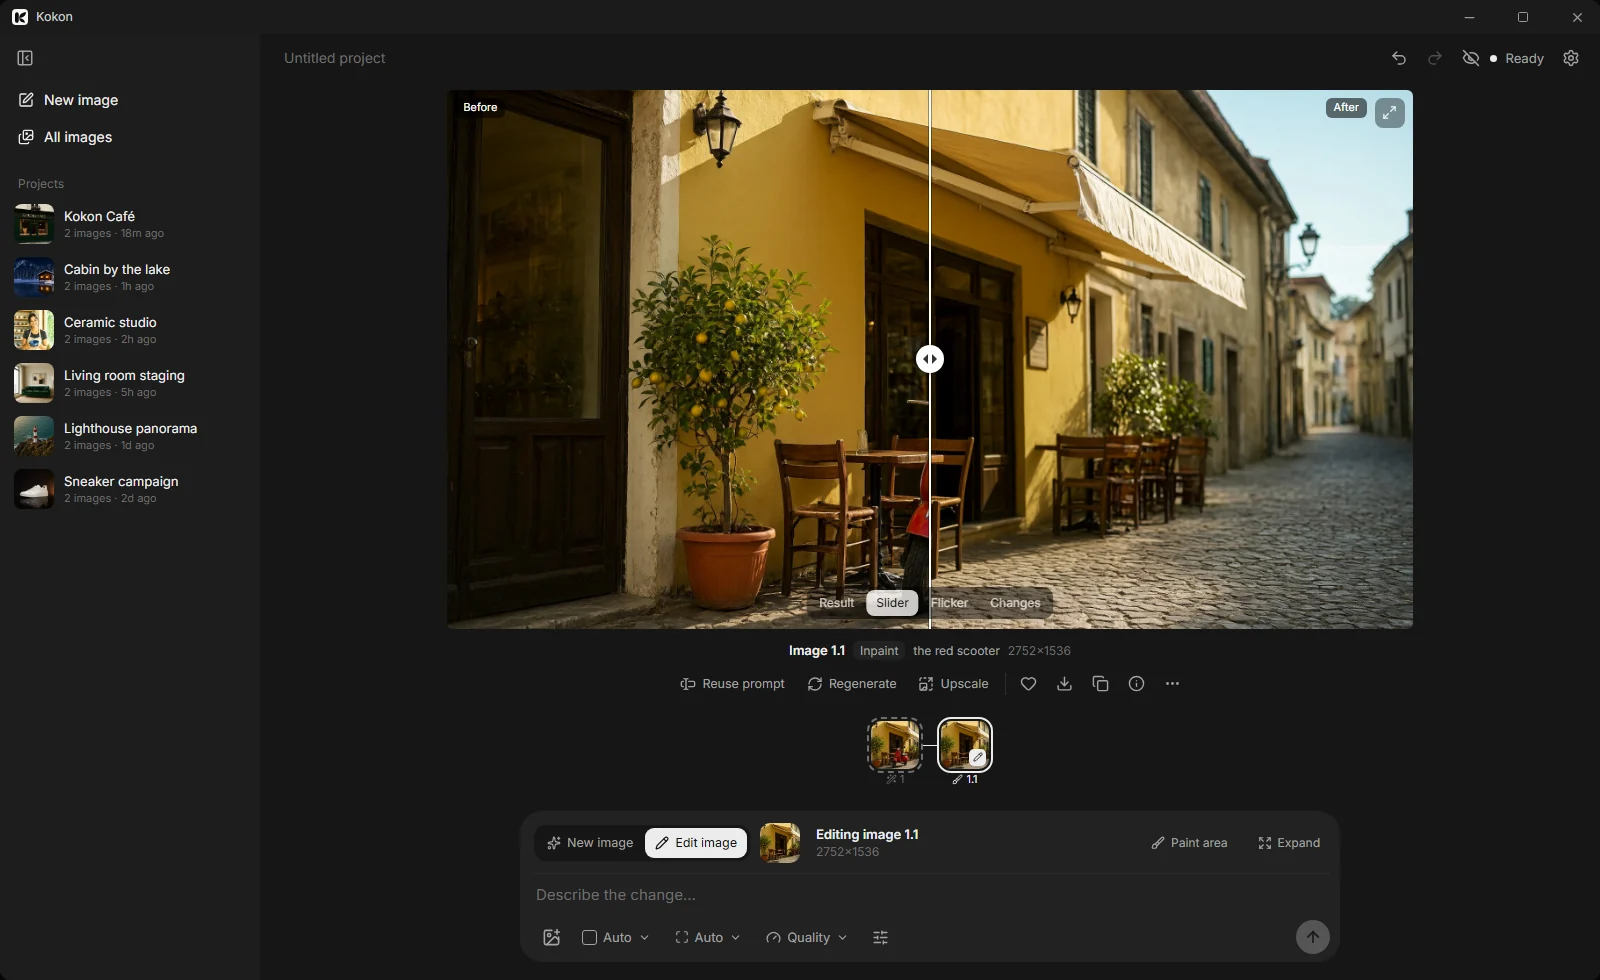
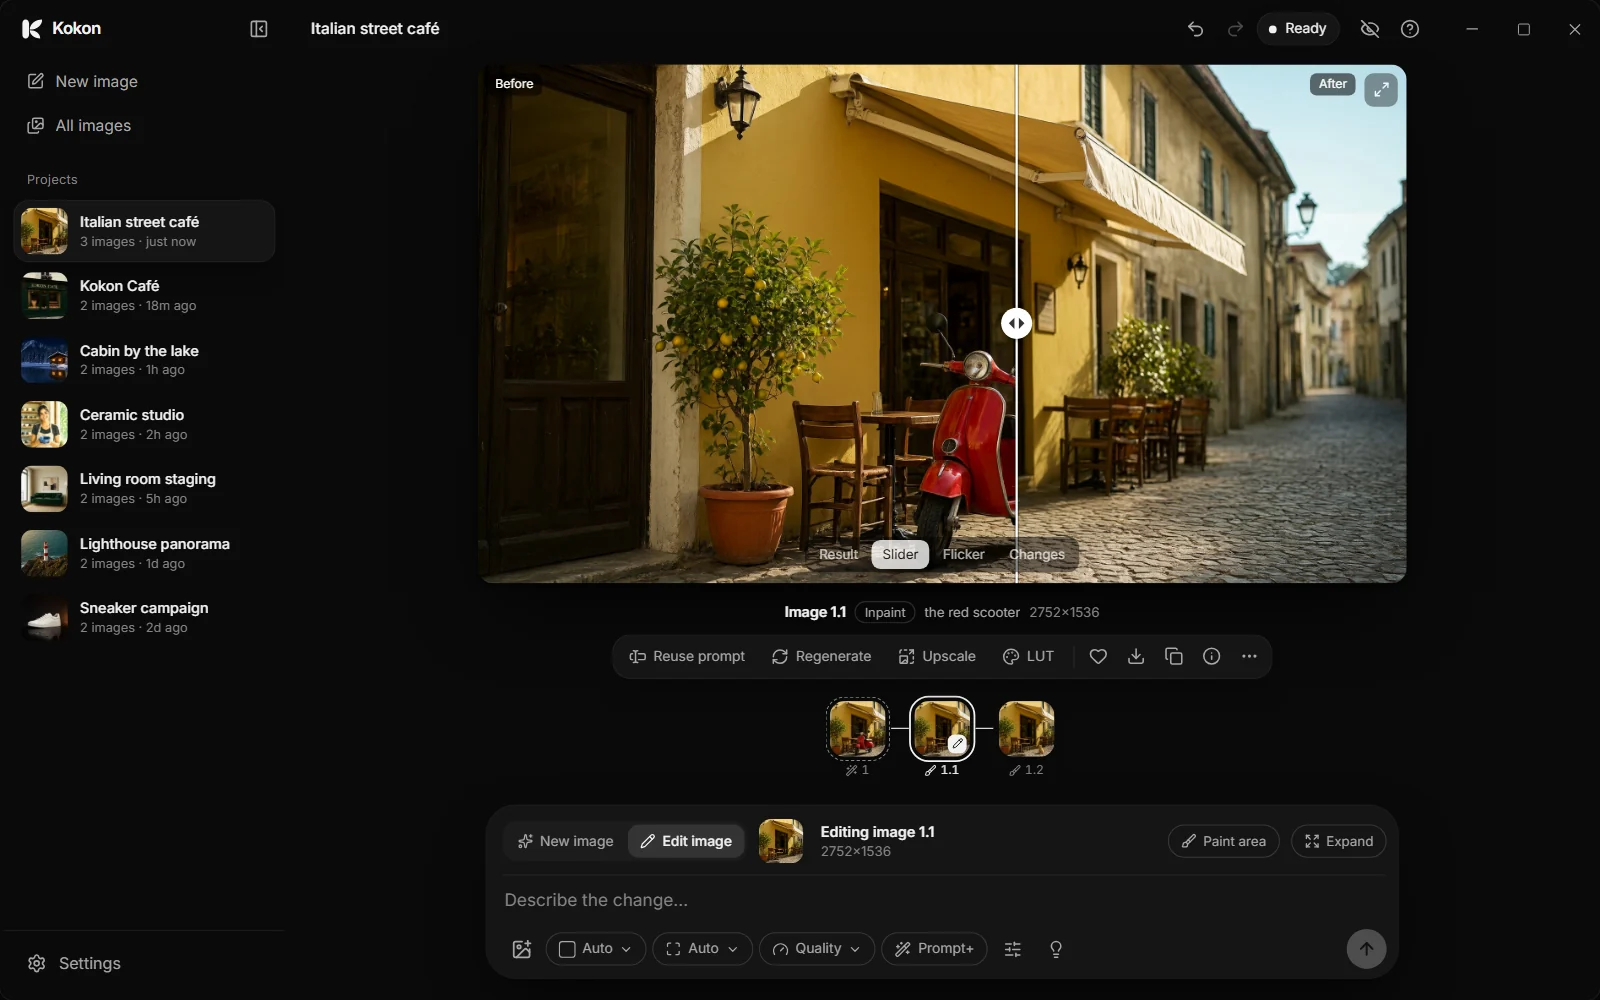
site, PH: screenshots of today's window (rendered from the app's components) instead of the pre-0.10 one

diff --git a/marketing/video/src/scenes/ProductHunt.tsx b/marketing/video/src/scenes/ProductHunt.tsx
@@ -3,7 +3,9 @@
 // a before/after per edit, the comparison with the cloud and ComfyUI, and what it runs on.
 import type { ReactNode } from "react";
 import { AbsoluteFill, Img, staticFile } from "remotion";
-import { PROMPTS } from "../app/fixtures";
+import { AppWindow } from "../app/AppWindow";
+import { appState, genItem, PROJECTS, PROMPTS, ref } from "../app/fixtures";
+import { CAT, REMOVED, STREET } from "./AppScenes";
 import { Mark } from "../app/Mark";
 
 const font = '"Inter Variable", Inter, sans-serif';
@@ -57,16 +59,31 @@ function Pair({ before, after, mode, prompt, kicker, title }: { before: string; 
   );
 }
 
+const HERO_STATE = (() => {
+  const base = appState();
+  return appState({
+    session: [genItem(STREET), genItem(REMOVED), genItem(CAT)],
+    selected: "street-removed",
+    compare: "slider",
+    composer: { ...base.composer, refs: [ref("street-removed")] },
+    projects: [{ id: "current", title: "Italian street café", updatedAt: Date.now() - 20_000, cover: "gen:street-cat", count: 3 }, ...PROJECTS],
+    projectId: "current",
+  });
+})();
+
 function Hero() {
   return (
     <Frame bg="street-removed.jpg">
-      <div style={{ position: "absolute", left: 64, top: 0, bottom: 0, width: 470, display: "flex", flexDirection: "column", justifyContent: "center" }}>
+      <div style={{ position: "absolute", left: 60, top: 0, bottom: 0, width: 450, display: "flex", flexDirection: "column", justifyContent: "center" }}>
         <Mark size={58} color={INK} />
-        <div style={{ marginTop: 26, fontSize: 58, fontWeight: 720, letterSpacing: "-0.045em", lineHeight: 1.02 }}>Edit photos by describing the change.</div>
-        <div style={{ marginTop: 20, fontSize: 23, lineHeight: 1.4, color: DIM }}>Like Nano Banana, but on your own computer. Free, private, no limits. We pick the model and set it up for your GPU.</div>
+        <div style={{ marginTop: 26, fontSize: 54, fontWeight: 720, letterSpacing: "-0.045em", lineHeight: 1.02 }}>Edit photos by describing the change.</div>
+        <div style={{ marginTop: 20, fontSize: 23, lineHeight: 1.4, color: DIM }}>Like Nano Banana, but on your own computer. Free, private, no limits. Nothing to set up.</div>
       </div>
-      <div style={{ position: "absolute", left: 580, top: 120, width: 820, height: 502, borderRadius: 16, overflow: "hidden", boxShadow: "0 0 0 1px rgba(255,255,255,0.14), 0 40px 120px rgba(0,0,0,0.7)" }}>
-        <Img src={staticFile("img/app-screenshot.webp")} style={{ width: "100%", height: "100%", objectFit: "cover", objectPosition: "0 0" }} />
+      {/* The real window (today's components), the scooter removed and the before/after slider on. */}
+      <div style={{ position: "absolute", left: 556, top: 157, width: 1440 * 0.47, height: 900 * 0.47, borderRadius: 12, overflow: "hidden", boxShadow: "0 0 0 1px rgba(255,255,255,0.14), 0 40px 120px rgba(0,0,0,0.7)" }}>
+        <div style={{ transform: "scale(0.47)", transformOrigin: "0 0" }}>
+          <AppWindow state={HERO_STATE} width={1440} height={900} split={0.58} />
+        </div>
       </div>
     </Frame>
   );
@@ -128,6 +145,17 @@ function Runs() {
         ))}
       </div>
     </Frame>
+  );
+}
+
+/** The window alone, for kokon.app (site/assets/img/app-screenshot.webp). */
+export function AppShot() {
+  return (
+    <AbsoluteFill style={{ background: "#0a0a0a" }}>
+      <div style={{ transform: `scale(${1600 / 1440})`, transformOrigin: "0 0" }}>
+        <AppWindow state={HERO_STATE} width={1440} height={900} split={0.58} />
+      </div>
+    </AbsoluteFill>
   );
 }
 

diff --git a/site/press/index.html b/site/press/index.html
@@ -17,7 +17,7 @@
 <meta property="og:title" content="Kokon press kit">
 <meta property="og:description" content="Everything you need to write about or make a video on Kokon: one-line and short descriptions, key facts, requirements, videos, before/after images, logos and contact.">
 <meta property="og:url" content="https://kokon.app/press/">
-<meta property="og:image" content="https://kokon.app/assets/img/app-screenshot.webp">
+<meta property="og:image" content="https://kokon.app/assets/img/app-screenshot.webp?v=2">
 <meta name="twitter:card" content="summary_large_image">
 <link rel="preconnect" href="https://fonts.googleapis.com">
 <link rel="preconnect" href="https://fonts.gstatic.com" crossorigin>
@@ -31,7 +31,7 @@
       "@type": "WebPage",
       "headline": "Kokon Press Kit: Facts, Videos, Images and Logos",
       "description": "Everything you need to write about or make a video on Kokon: one-line and short descriptions, key facts, requirements, videos, before/after images, logos and contact.",
-      "image": "https://kokon.app/assets/img/app-screenshot.webp",
+      "image": "https://kokon.app/assets/img/app-screenshot.webp?v=2",
       "datePublished": "2026-10-21",
       "dateModified": "2026-10-21",
       "author": {
@@ -130,7 +130,7 @@
     <h2>Images</h2>
     <p>All made by Kokon on one consumer GPU. Prompts and seeds are in the repository.</p>
     <ul>
-      <li><a href="../assets/img/app-screenshot.webp">App screenshot</a> · <a href="../assets/og.png">Social card</a> · <a href="../assets/kokon-poster.jpg">Video poster</a></li>
+      <li><a href="../assets/img/app-screenshot.webp?v=2">App screenshot</a> · <a href="../assets/og.png">Social card</a> · <a href="../assets/kokon-poster.jpg">Video poster</a></li>
       <li>Remove: <a href="../assets/img/street.webp">before</a> / <a href="../assets/img/street-removed.webp">after</a> · Add: <a href="../assets/img/street-cat.webp">after</a></li>
       <li>Relight: <a href="../assets/img/cabin.webp">before</a> / <a href="../assets/img/cabin-winter.webp">after</a> · Text: <a href="../assets/img/bakery.webp">before</a> / <a href="../assets/img/bakery-text.webp">after</a></li>
       <li>Restyle: <a href="../assets/img/potter.webp">before</a> / <a href="../assets/img/potter-watercolor.webp">after</a> · Replace: <a href="../assets/img/room.webp">before</a> / <a href="../assets/img/room-sofa.webp">after</a></li>

diff --git a/site/local-ai-photo-editor/index.html b/site/local-ai-photo-editor/index.html
@@ -17,7 +17,7 @@
 <meta property="og:title" content="A free AI photo editor that runs on your own computer">
 <meta property="og:description" content="Kokon is a free, open-source AI photo editor that runs on your own computer: remove objects, relight, change text, restyle and expand photos with a sentence. Offline, private, no limits. Windows, Mac and Linux.">
 <meta property="og:url" content="https://kokon.app/local-ai-photo-editor/">
-<meta property="og:image" content="https://kokon.app/assets/img/app-screenshot.webp">
+<meta property="og:image" content="https://kokon.app/assets/img/app-screenshot.webp?v=2">
 <meta name="twitter:card" content="summary_large_image">
 <link rel="preconnect" href="https://fonts.googleapis.com">
 <link rel="preconnect" href="https://fonts.gstatic.com" crossorigin>
@@ -31,7 +31,7 @@
       "@type": "TechArticle",
       "headline": "Free Local AI Photo Editor: Edit Photos with AI on Your Own Computer | Kokon",
       "description": "Kokon is a free, open-source AI photo editor that runs on your own computer: remove objects, relight, change text, restyle and expand photos with a sentence. Offline, private, no limits. Windows, Mac and Linux.",
-      "image": "https://kokon.app/assets/img/app-screenshot.webp",
+      "image": "https://kokon.app/assets/img/app-screenshot.webp?v=2",
       "datePublished": "2026-10-21",
       "dateModified": "2026-10-21",
       "author": {
@@ -139,7 +139,7 @@
     <p class="lede-left">Describe the change and Kokon makes it, on your own GPU. No uploads, no account, no daily limit, and nothing to configure. Updated October 21, 2026.</p>
 
     <figure>
-      <img src="../assets/img/app-screenshot.webp" width="1600" height="980" alt="Kokon, a local AI photo editor: a café street photo with the scooter removed, with a before/after slider" loading="eager">
+      <img src="../assets/img/app-screenshot.webp?v=2" width="1600" height="1000" alt="Kokon, a local AI photo editor: a café street photo with the scooter removed, with a before/after slider" loading="eager">
       <figcaption>Kokon on Windows: the scooter was painted over and removed, on the computer's own GPU.</figcaption>
     </figure>
 

diff --git a/site/qwen-image-2-1-local/index.html b/site/qwen-image-2-1-local/index.html
@@ -17,7 +17,7 @@
 <meta property="og:title" content="How to run Qwen-Image 2.1 locally (no Python, no ComfyUI)">
 <meta property="og:description" content="Run Qwen-Image 2.1 on Windows, Mac or Linux with one installer: requirements, setup, editing tips and troubleshooting.">
 <meta property="og:url" content="https://kokon.app/qwen-image-2-1-local/">
-<meta property="og:image" content="https://kokon.app/assets/img/app-screenshot.webp">
+<meta property="og:image" content="https://kokon.app/assets/img/app-screenshot.webp?v=2">
 <meta name="twitter:card" content="summary_large_image">
 <link rel="preconnect" href="https://fonts.googleapis.com">
 <link rel="preconnect" href="https://fonts.gstatic.com" crossorigin>
@@ -31,7 +31,7 @@
       "@type": "TechArticle",
       "headline": "How to Run Qwen-Image 2.1 Locally on Windows, Mac and Linux (No Python, No ComfyUI)",
       "description": "Requirements, one-installer setup, editing tips, speed and troubleshooting for running Qwen-Image 2.1 on your own GPU.",
-      "image": "https://kokon.app/assets/img/app-screenshot.webp",
+      "image": "https://kokon.app/assets/img/app-screenshot.webp?v=2",
       "datePublished": "2026-10-10",
       "dateModified": "2026-10-10",
       "author": { "@type": "Person", "name": "Gabriele Lozupone", "url": "https://gabrielelozupone.github.io/" },
@@ -87,7 +87,7 @@
     <p class="lede-left">No Python, no ComfyUI, no cloud. One installer, a model download, and you edit photos by describing the change. Updated October 10, 2026.</p>
 
     <figure>
-      <img src="../assets/img/app-screenshot.webp" width="1600" height="980" alt="Kokon running Qwen-Image 2.1 locally: a café street photo with the scooter removed, shown with a before/after slider" loading="eager">
+      <img src="../assets/img/app-screenshot.webp?v=2" width="1600" height="1000" alt="Kokon running Qwen-Image 2.1 locally: a café street photo with the scooter removed, shown with a before/after slider" loading="eager">
       <figcaption>Kokon with a local Qwen-Image 2.1 edit: the scooter was painted and removed.</figcaption>
     </figure>
 

diff --git a/site/comfyui-alternative/index.html b/site/comfyui-alternative/index.html
@@ -17,7 +17,7 @@
 <meta property="og:title" content="A simple ComfyUI alternative for AI photo editing">
 <meta property="og:description" content="ComfyUI is powerful, but you have to build everything. Kokon is a simple alternative for AI photo editing: one installer, no nodes, no Python; it picks the model and the settings for your GPU. It can even reuse your ComfyUI model files.">
 <meta property="og:url" content="https://kokon.app/comfyui-alternative/">
-<meta property="og:image" content="https://kokon.app/assets/img/app-screenshot.webp">
+<meta property="og:image" content="https://kokon.app/assets/img/app-screenshot.webp?v=2">
 <meta name="twitter:card" content="summary_large_image">
 <link rel="preconnect" href="https://fonts.googleapis.com">
 <link rel="preconnect" href="https://fonts.gstatic.com" crossorigin>
@@ -31,7 +31,7 @@
       "@type": "TechArticle",
       "headline": "A Simple ComfyUI Alternative for Editing Photos with AI (No Nodes, No Python) | Kokon",
       "description": "ComfyUI is powerful, but you have to build everything. Kokon is a simple alternative for AI photo editing: one installer, no nodes, no Python; it picks the model and the settings for your GPU. It can even reuse your ComfyUI model files.",
-      "image": "https://kokon.app/assets/img/app-screenshot.webp",
+      "image": "https://kokon.app/assets/img/app-screenshot.webp?v=2",
       "datePublished": "2026-10-21",
       "dateModified": "2026-10-21",
       "author": {

diff --git a/site/remove-objects-from-photos-offline/index.html b/site/remove-objects-from-photos-offline/index.html
@@ -17,7 +17,7 @@
 <meta property="og:title" content="How to remove objects from photos offline, for free">
 <meta property="og:description" content="Remove people, cars, wires or anything else from a photo with AI, offline and free: paint over it, click Remove, done. Step-by-step with Kokon on Windows, Mac and Linux. Your photo is never uploaded.">
 <meta property="og:url" content="https://kokon.app/remove-objects-from-photos-offline/">
-<meta property="og:image" content="https://kokon.app/assets/img/app-screenshot.webp">
+<meta property="og:image" content="https://kokon.app/assets/img/app-screenshot.webp?v=2">
 <meta name="twitter:card" content="summary_large_image">
 <link rel="preconnect" href="https://fonts.googleapis.com">
 <link rel="preconnect" href="https://fonts.gstatic.com" crossorigin>
@@ -31,7 +31,7 @@
       "@type": "TechArticle",
       "headline": "How to Remove Objects from Photos Offline, for Free (AI, No Upload) | Kokon",
       "description": "Remove people, cars, wires or anything else from a photo with AI, offline and free: paint over it, click Remove, done. Step-by-step with Kokon on Windows, Mac and Linux. Your photo is never uploaded.",
-      "image": "https://kokon.app/assets/img/app-screenshot.webp",
+      "image": "https://kokon.app/assets/img/app-screenshot.webp?v=2",
       "datePublished": "2026-10-21",
       "dateModified": "2026-10-21",
       "author": {

diff --git a/marketing/video/src/Root.tsx b/marketing/video/src/Root.tsx
@@ -12,7 +12,7 @@ import { Banner } from "./scenes/Banner";
 import { Update010, UPDATE_FRAMES } from "./scenes/Update010";
 import { LENGTH } from "./app/timeline";
 import { REELS, ReelScene, reelFrames } from "./scenes/Reels";
-import { PH_SLIDES } from "./scenes/ProductHunt";
+import { AppShot, PH_SLIDES } from "./scenes/ProductHunt";
 
 const withPreload = (C: ComponentType) => () => (
   <>
@@ -43,6 +43,7 @@ export function Root() {
       {Object.entries(PH_SLIDES).map(([id, C]) => (
         <Composition key={id} id={id} component={withPreload(() => <>{C()}</>)} durationInFrames={1} fps={30} width={1270} height={760} />
       ))}
+      <Composition id="AppShot" component={withPreload(AppShot)} durationInFrames={1} fps={30} width={1600} height={1000} />
       <Composition id="Banner" component={withPreload(Banner)} durationInFrames={1} fps={30} width={2560} height={1440} />
     </>
   );
